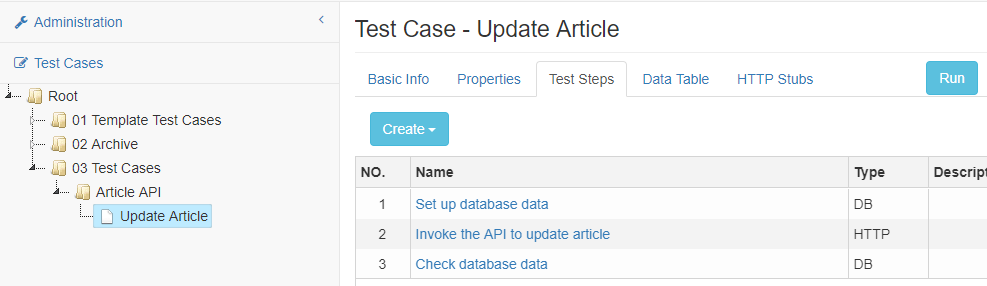
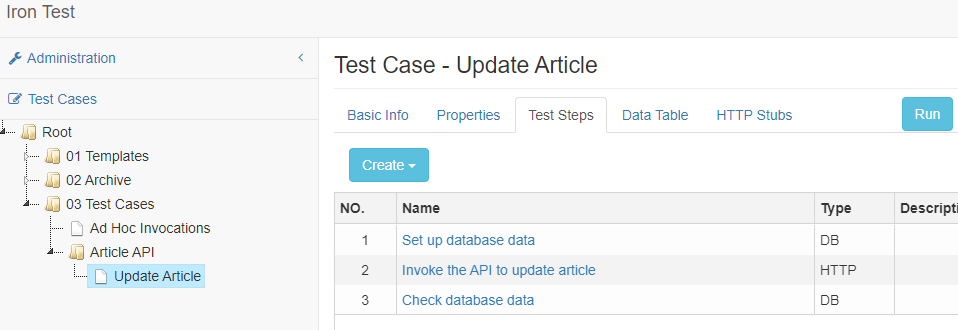
refine readme

diff --git a/README.md b/README.md
@@ -23,7 +23,8 @@ Table of Contents:
 - [Download](#download)
 - [Launch](#launch)
 - [Use](#use)
-    - [Integrated REST API Testing](#integrated-rest-api-testing)
+    - [Ad Hoc Invocation](#ad-hoc-invocation)
+    - [Automated Test Case](#automated-test-case)
         - [Create Test Case Outline](#create-test-case-outline)
         - [Populate Step 1](#populate-step-1)
         - [Populate Step 2](#populate-step-2)
@@ -55,7 +56,20 @@ Open a web browser (Google Chrome preferred), and go to the UI address.
 
 ## Use
 
-### Integrated REST API Testing
+### Ad Hoc Invocation
+If you only want to invoke an API and see its response, just need to create a test step in a new or existing test case.
+
+To create a new test case, right click on a folder in the tree, select Create Test Case and give it a name.
+
+![New Ad Hoc Test Case](screenshots/basic-use/new-ad-hoc-test-case.png)
+
+Suppose you want to invoke a REST API. On the right pane of the screen, i.e. the test case edit view, under the Test Steps tab, click Create dropdown button and select HTTP Step. The test step edit view opens.
+
+Under the Basic Info tab, set the test step name. Under the Endpoint Details tab, set the API URL, like `http://dummy.restapiexample.com/api/v1/employee/1`. Under the Invocation tab, select Method `GET` and click Invoke button.
+
+![Ad Hoc HTTP Invocation](screenshots/basic-use/ad-hoc-http-invocation.png)
+
+### Automated Test Case
 We are going to demo how to test a REST API that updates an article in database. 
 
 The API is the sample Article API that is bundled with Iron Test. It does CRUD operations against the Article table in a sample H2 database. The sample database is automatically created under `<IronTest_Home>/database` when Iron Test is launched for the first time.
@@ -68,22 +82,18 @@ We are planning to have three test steps in our test case
 ```
 
 #### Create Test Case Outline
-First of all, create the (empty) test case by right clicking on a folder in the tree and selecting Create Test Case. Give it a name. The test case edit view shows as below.
-
-![New Test Case](screenshots/basic-use/new-test-case.png)
-
-You can create your preferred folder structure for managing test cases, by right clicking on folder and selecting needed context menu item.
+First of all, create a new test case. (You can create your preferred folder structure for managing test cases, by right clicking on folder and selecting needed context menu item.)
 
 Now we can add test steps to the test case.
 
-Under the Test Steps tab, click Create dropdown button and select Database Step. Enter the name of step 1 `Set up database data`. Click Back link to return to the test case edit view. Repeat this to add the other two test steps (one HTTP Step and one Database Step). The test case outline is created as shown below.
+Under the Test Steps tab, click Create dropdown button and select Database Step. Enter the name of step 1 `Set up database data`. Click `Back` link to return to the test case edit view. Repeat this to add the other two test steps (one HTTP Step and one Database Step). The test case outline is created as shown below.
 
 ![Test Case Outline](screenshots/basic-use/test-case-outline.png)
 
 #### Populate Step 1 
 Click the name of step 1 to open its edit view.
           
-Under the Endpoint Details tab, enter JDBC URL `jdbc:h2:./database/sample;AUTO_SERVER=TRUE` which will be used by the test step to connect to the sample database. Here `./database/sample` in the URL equals to `<IronTest_Home>/database/sample`, as Iron Test application is launched from directory `<IronTest_Home>`. Then enter Username and Password which can be found in `<IronTest_Home>/config.yml`.
+Under the Endpoint Details tab, set JDBC URL `jdbc:h2:./database/sample;AUTO_SERVER=TRUE` which will be used by the test step to connect to the sample database. Here `./database/sample` in the URL equals to `<IronTest_Home>/database/sample`, as Iron Test application is launched from directory `<IronTest_Home>`. Then set Username and Password which can be found in `<IronTest_Home>/config.yml`.
 
 Under the Invocation tab, enter below SQL script.
 ```
@@ -95,7 +105,7 @@ insert into article (id, title, content) values (1, 'article1', 'content1');
 insert into article (id, title, content) values (2, 'article2', 'content2');
 ```
 
-Click the Invoke button to try it out (run the script), like shown below.
+Click the Invoke button to try it out (i.e. run the script), like shown below.
 
 ![Database Setup](screenshots/basic-use/database-setup.png)
 
@@ -104,7 +114,7 @@ Click the Back link to return to test case edit view.
 #### Populate Step 2 
 Click the name of step 2 to open its edit view.
 
-Under the Endpoint Details tab, enter URL `http://localhost:8090/api/articles/2`. Ignore Username and Password fields as they are not used in this demo.
+Under the Endpoint Details tab, set URL `http://localhost:8090/api/articles/2`. Ignore Username and Password fields as they are not used in this demo.
 
 Under the Invocation tab, select `PUT` from the Method dropdown list, click the menu dropdown button and select `Show HTTP Headers`.
 
@@ -122,7 +132,7 @@ Input the request body for updating article 2.
 
 Click the Invoke button to try it out and you'll see a successful response in the right pane. 
 
-Click the Assertions button to open the assertions pane. In the assertions pane, click Create dropdown button and select `StatusCodeEqual Assertion` to create a StatusCodeEqual assertion. Enter the expected HTTP response status code (here 200), and click the Verify button to verify the assertion, as shown below.
+Click the Assertions button to open the assertions pane. In the assertions pane, click Create dropdown button and select `StatusCodeEqual Assertion` to create a StatusCodeEqual assertion. Set the expected HTTP response status code (here 200), and click the Verify button to verify the assertion, as shown below.
 
 ![HTTP Invocation and Assertion](screenshots/basic-use/http-invocation-and-assertion.png)
 
